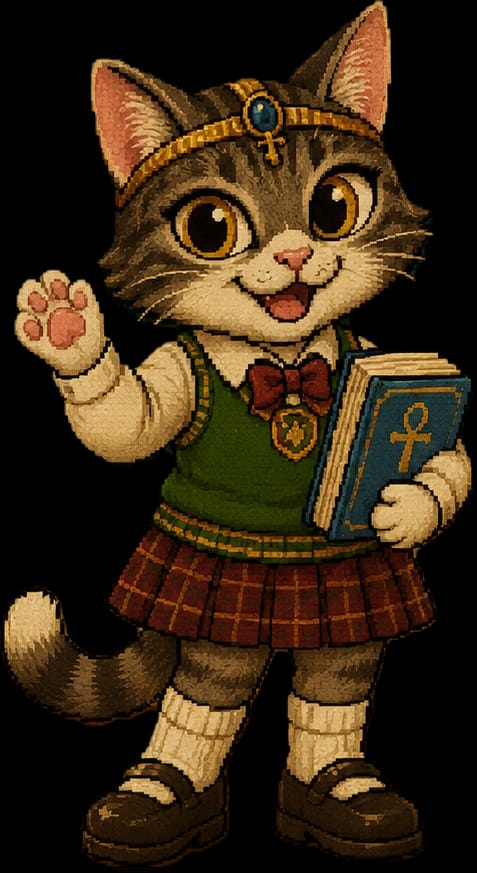
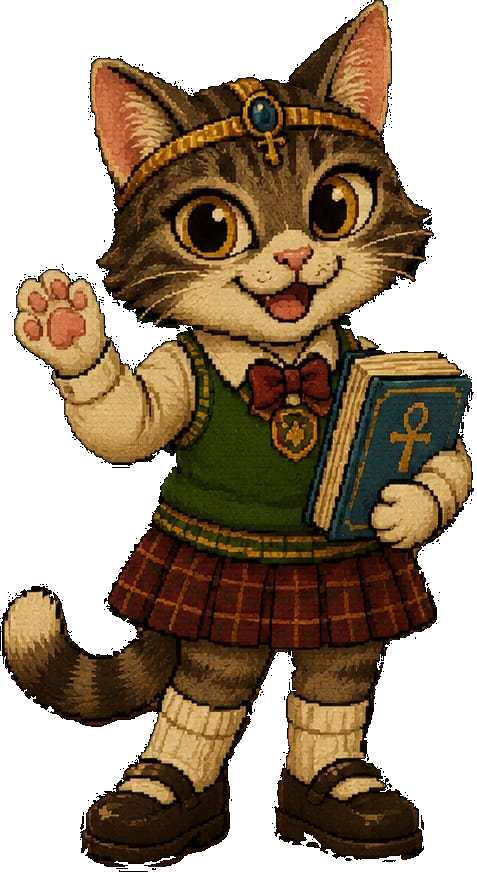
fix: compositing correcto — sprites RGBA con floodfill, sin geq
Problema raíz: los sprites eran RGB con fondo negro. El filtro geq usaba
umbral por color para hacerlo transparente, pero comía pupilas, boca y
sombras oscuras del personaje que también eran near-black.

Solución: convertir sprites a RGBA una sola vez con floodfill desde las
4 esquinas (sentinel magenta para evitar confusión con near-black). El
floodfill solo alcanza píxeles de fondo conectados al borde — las features
internas del personaje (ojos, boca) quedan intactas porque no están
conectadas al exterior.

Resultado: profesor_gato 47.5% px transparentes, bastet 40.6%, alpha
binario (0 o 255, sin gradientes), centro opaco.

video_assembler: elimina filtro geq — ya no necesario, el PNG tiene su
propio canal alpha correcto.

diff --git a/modules/video_assembler.py b/modules/video_assembler.py
@@ -114,17 +114,13 @@ class VideoAssemblerV4:
                 .filter("setpts", "PTS-STARTPTS")
             )
 
-        # Personaje: PNG oficial con fondo negro removido, centrado en la base del frame.
-        # Usamos geq en lugar de colorkey: evalúa R+G+B por pixel y solo hace
-        # transparente lo que es negro puro (suma ≤ 20/765), sin afectar colores oscuros.
+        # Personaje: PNG RGBA con fondo ya transparente (convertido por floodfill).
+        # El canal alpha del PNG se usa directamente — sin keying ni geq.
         if char_png.exists():
             char = (
                 ffmpeg.input(str(char_png), loop=1, framerate=VIDEO_FPS, t=duracion)
                 .filter("scale", CHAR_PNG_WIDTH, -2)
                 .filter("format", "rgba")
-                .filter("geq",
-                        r="r(X,Y)", g="g(X,Y)", b="b(X,Y)",
-                        a="if(lte(r(X,Y),8)*lte(g(X,Y),8)*lte(b(X,Y),8),0,255)")
                 .filter("setpts", "PTS-STARTPTS")
             )
             # x=(W-w)/2 → centrado horizontal; y=H-h-20 → pegado al borde inferior
